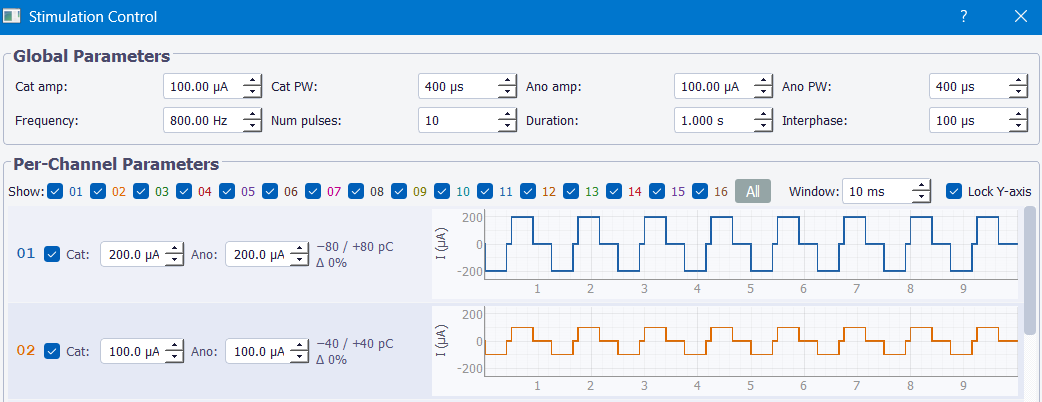
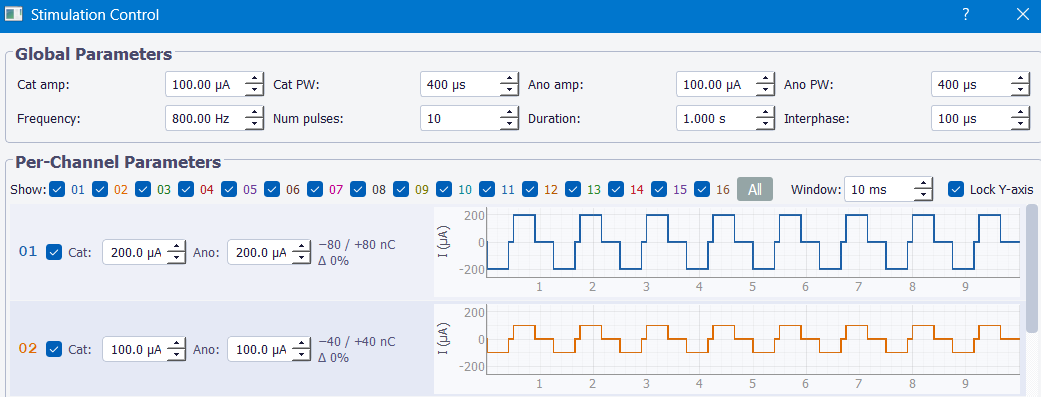
final changes oder so

diff --git a/Semesterproject/sections/supplementary_material.tex b/Semesterproject/sections/supplementary_material.tex
@@ -187,42 +187,42 @@ $f_\text{BLE} = n \times f/\text{ch}$ = total BLE throughput.}
 $n$ & $f$/ch (kHz) & $f_\text{BLE}$ (kSa/s)
     & $P_{3.6\,\text{V}}$ (mW) & $P_{3.0\,\text{V}}$ (mW) & Limit \\
 \midrule
-1 &  1    &  1 & 43.992 & 33.48 & ---     \\
-1 &  2    &  2 & 44.892 & 34.23 & ---     \\
-1 &  4    &  4 & 46.620 & 35.58 & ---     \\
-1 &  8    &  8 & 49.608 & 37.95 & ---     \\
-1 & 16    & 16 & 57.024 & 44.01 & ---     \\
-1 & 32    & 32 & 70.956 & 55.20 & BLE     \\
+1 &  1    &  1 & 43.99 & 33.48 & ---     \\
+1 &  2    &  2 & 44.89 & 34.23 & ---     \\
+1 &  4    &  4 & 46.62 & 35.58 & ---     \\
+1 &  8    &  8 & 49.61 & 37.95 & ---     \\
+1 & 16    & 16 & 57.02 & 44.01 & ---     \\
+1 & 32    & 32 & 70.96 & 55.20 & BLE     \\
 \addlinespace
-2 &  1    &  2 & 46.152 & 34.98 & ---     \\
-2 &  2    &  4 & 49.284 & 37.32 & ---     \\
-2 &  4    &  8 & 55.800 & 42.36 & ---     \\
-2 &  8    & 16 & 67.716 & 51.36 & SPI     \\
+2 &  1    &  2 & 46.15 & 34.98 & ---     \\
+2 &  2    &  4 & 49.28 & 37.32 & ---     \\
+2 &  4    &  8 & 55.80 & 42.36 & ---     \\
+2 &  8    & 16 & 67.72 & 51.36 & SPI     \\
 \addlinespace
-3 &  1    &  3 & 46.944 & 35.40 & ---     \\
-3 &  2    &  6 & 50.472 & 38.22 & ---     \\
-3 &  4    & 12 & 57.708 & 43.80 & ---     \\
-3 &  8    & 24 & 71.136 & 54.33 & SPI     \\
+3 &  1    &  3 & 46.94 & 35.40 & ---     \\
+3 &  2    &  6 & 50.47 & 38.22 & ---     \\
+3 &  4    & 12 & 57.71 & 43.80 & ---     \\
+3 &  8    & 24 & 71.14 & 54.33 & SPI     \\
 \addlinespace
-4 &  1    &  4 & 46.980 & 35.73 & ---     \\
-4 &  2    &  8 & 51.156 & 39.00 & ---     \\
-4 &  4    & 16 & 59.508 & 45.39 & ---     \\
-4 &  8    & 32 & 74.772 & 57.30 & BLE+SPI \\
+4 &  1    &  4 & 46.98 & 35.73 & ---     \\
+4 &  2    &  8 & 51.16 & 39.00 & ---     \\
+4 &  4    & 16 & 59.51 & 45.39 & ---     \\
+4 &  8    & 32 & 74.77 & 57.30 & BLE+SPI \\
 \addlinespace
-8 &  1    &  8 & 48.924 & 37.38 & ---     \\
-8 &  2    & 16 & 55.044 & 42.24 & ---     \\
-8 &  4    & 32 & 67.104 & 51.96 & BLE     \\
+8 &  1    &  8 & 48.92 & 37.38 & ---     \\
+8 &  2    & 16 & 55.04 & 42.24 & ---     \\
+8 &  4    & 32 & 67.10 & 51.96 & BLE     \\
 \addlinespace
-10 &  1   & 10 & 50.220 & 38.31 & ---     \\
-10 &  2   & 20 & 57.276 & 43.83 & ---     \\
-10 &  3.2 & 32 & 65.952 & 50.85 & BLE     \\
+10 &  1   & 10 & 50.22 & 38.31 & ---     \\
+10 &  2   & 20 & 57.28 & 43.83 & ---     \\
+10 &  3.2 & 32 & 65.95 & 50.85 & BLE     \\
 \addlinespace
-12 &  1      & 12 & 51.516 & 39.15 & ---  \\
-12 &  2      & 24 & 59.220 & 45.54 & ---  \\
-12 &  2.667  & 32 & 64.368 & 50.13 & BLE  \\
+12 &  1      & 12 & 51.52 & 39.15 & ---  \\
+12 &  2      & 24 & 59.22 & 45.54 & ---  \\
+12 &  2.667  & 32 & 64.37 & 50.13 & BLE  \\
 \addlinespace
-16 &  1   & 16 & 53.028 & 40.74 & ---     \\
-16 &  2   & 32 & 62.928 & 48.63 & BLE     \\
+16 &  1   & 16 & 53.03 & 40.74 & ---     \\
+16 &  2   & 32 & 62.93 & 48.63 & BLE     \\
 \bottomrule
 \end{tabular}
 \end{table}
@@ -241,55 +241,55 @@ measurement-to-measurement variability.}
 \toprule
 $n$ & $f$/ch (kHz) & $f_\text{BLE}$ (kSa/s) & $P_{3.6\,\text{V}}$ (mW) & Limit \\
 \midrule
- 1 &  2      &  2 & 43.668 & ---     \\
- 1 &  4      &  4 & 45.612 & ---     \\
- 1 &  8      &  8 & 48.348 & ---     \\
- 1 & 16      & 16 & 55.368 & ---     \\
- 1 & 32      & 32 & 68.400 & BLE     \\
+ 1 &  2      &  2 & 43.67 & ---     \\
+ 1 &  4      &  4 & 45.61 & ---     \\
+ 1 &  8      &  8 & 48.35 & ---     \\
+ 1 & 16      & 16 & 55.37 & ---     \\
+ 1 & 32      & 32 & 68.40 & BLE     \\
 \addlinespace
- 2 &  2      &  4 & 46.980 & ---     \\
- 2 &  8      & 16 & 60.588 & SPI     \\
+ 2 &  2      &  4 & 46.98 & ---     \\
+ 2 &  8      & 16 & 60.59 & SPI     \\
 \addlinespace
- 3 &  2      &  6 & 47.772 & ---     \\
- 3 &  8      & 24 & 64.188 & SPI     \\
+ 3 &  2      &  6 & 47.77 & ---     \\
+ 3 &  8      & 24 & 64.19 & SPI     \\
 \addlinespace
- 4 &  2      &  8 & 48.708 & ---     \\
- 4 &  8      & 32 & 68.220 & BLE+SPI \\
+ 4 &  2      &  8 & 48.71 & ---     \\
+ 4 &  8      & 32 & 68.22 & BLE+SPI \\
 \addlinespace
- 5 &  2      & 10 & 49.644 & ---     \\
- 5 &  6.4    & 32 & 66.492 & BLE     \\
+ 5 &  2      & 10 & 49.64 & ---     \\
+ 5 &  6.4    & 32 & 66.49 & BLE     \\
 \addlinespace
- 6 &  2      & 12 & 50.580 & ---     \\
- 6 &  5.333  & 32 & 64.944 & BLE     \\
+ 6 &  2      & 12 & 50.58 & ---     \\
+ 6 &  5.333  & 32 & 64.94 & BLE     \\
 \addlinespace
- 7 &  2      & 14 & 51.732 & ---     \\
- 7 &  4.571  & 32 & 63.756 & BLE     \\
+ 7 &  2      & 14 & 51.73 & ---     \\
+ 7 &  4.571  & 32 & 63.76 & BLE     \\
 \addlinespace
- 8 &  2      & 16 & 53.244 & ---     \\
- 8 &  4      & 32 & 64.152 & BLE     \\
+ 8 &  2      & 16 & 53.24 & ---     \\
+ 8 &  4      & 32 & 64.15 & BLE     \\
 \addlinespace
- 9 &  2      & 18 & 53.748 & ---     \\
- 9 &  3.556  & 32 & 62.352 & BLE     \\
+ 9 &  2      & 18 & 53.75 & ---     \\
+ 9 &  3.556  & 32 & 62.35 & BLE     \\
 \addlinespace
-10 &  2      & 20 & 55.116 & ---     \\
-10 &  3.2    & 32 & 63.036 & BLE     \\
+10 &  2      & 20 & 55.12 & ---     \\
+10 &  3.2    & 32 & 63.04 & BLE     \\
 \addlinespace
-11 &  2      & 22 & 55.440 & ---     \\
-11 &  2.909  & 32 & 61.596 & BLE     \\
+11 &  2      & 22 & 55.44 & ---     \\
+11 &  2.909  & 32 & 61.60 & BLE     \\
 \addlinespace
-12 &  2      & 24 & 57.132 & ---     \\
-12 &  2.667  & 32 & 62.388 & BLE     \\
+12 &  2      & 24 & 57.13 & ---     \\
+12 &  2.667  & 32 & 62.39 & BLE     \\
 \addlinespace
-13 &  2      & 26 & 57.564 & ---     \\
-13 &  2.462  & 32 & 61.092 & BLE     \\
+13 &  2      & 26 & 57.56 & ---     \\
+13 &  2.462  & 32 & 61.09 & BLE     \\
 \addlinespace
-14 &  2      & 28 & 58.500 & ---     \\
-14 &  2.286  & 32 & 60.552 & BLE     \\
+14 &  2      & 28 & 58.50 & ---     \\
+14 &  2.286  & 32 & 60.55 & BLE     \\
 \addlinespace
-15 &  2      & 30 & 59.472 & ---     \\
-15 &  2.133  & 32 & 61.200 & BLE     \\
+15 &  2      & 30 & 59.47 & ---     \\
+15 &  2.133  & 32 & 61.20 & BLE     \\
 \addlinespace
-16 &  2      & 32 & 61.308 & BLE     \\
+16 &  2      & 32 & 61.31 & BLE     \\
 \bottomrule
 \end{tabular}
 \end{table}

diff --git a/Semesterproject/sections/methods.tex b/Semesterproject/sections/methods.tex
@@ -80,7 +80,7 @@ For the firmware development, the nrf52832 development kits (DKs) were used as t
 \label{sec:hardware_intan}
 
 SPI (Serial Peripheral Interface) is a synchronous serial protocol in which one device,
-the master (here the nRF52832), drives the clock (SCLK)\label{sec:spi_timing} and
+the master (here the nRF52832), drives the clock (SCLK) and
 initiates every transaction, while the other, the slave (here the Intan RHS2116),
 responds only when addressed. The clock rate is fixed at 8\,MHz throughout this design,
 in both recording and stimulation modes.
@@ -133,7 +133,7 @@ The initialisation sequence follows the example procedure in the RHS2116
 datasheet~\cite{intan_rhs2116_datasheet} (pp.~44--45). The lower amplifier bandwidth is
 fixed at $f_L = 5$\,Hz, appropriate for LFP recording. The only notable deviation is
 that the upper bandwidth~$f_H$ is not configured during initialisation; it is instead
-written at every acquisition start via \texttt{rhs\_set\_bandwidth()}, enabling the
+written at every acquisition start, enabling the
 upper bandwidth to be adjusted from the GUI based on the configured sampling rate
 (see Section~\ref{sec:ppi_acquisition}).
 
@@ -386,7 +386,10 @@ as described in Section~\ref{sec:results_noise}.
     \caption{Miniaturization progression toward an integrated neural recording module.
     (a) SparkFun nRF52832 Breakout board, used for initial development (50$\times$16\,mm).
     (b) Custom QFN48 nRF52832 module (29$\times$17\,mm).
-    (c) Custom WLCSP49 nRF52832 module, most compact standalone module (29$\times$17\,mm).
+    (c) Custom WLCSP49 nRF52832 module (29$\times$17\,mm). The board is the same size
+    as (b); it is the \emph{chip package} that is smaller (WLCSP49 2.956$\times$3.226\,mm
+    vs.\ QFN48 6$\times$6\,mm), which is what enables further miniaturisation in a
+    final co-integrated device.
     (a)--(c) run identical firmware and each interface with the Intan RHS2116 via an
     external carrier board (see Figure~\ref{fig:wiring_connector}).
     (d) Prototype flex PCB co-integrating the nRF52832 and Intan RHS2116 on the same
@@ -598,10 +601,11 @@ immediately resumed unless a stop has been requested, in which case acquisition
 halts cleanly at the buffer boundary.
 
 When the threshold fires at transaction 819, the active buffer has
-$1024 - 819 = 205$ slots remaining before it would overflow. At the maximum SPI
-rate of 128\,kHz (8\,kHz per channel in multi-channel mode, reachable at any
-channel count since the SPI always fires at $16\times$ the per-channel rate), this
-gives a swap window of $205 \times 7.8125\;\mu\text{s} \approx 1.6\,\text{ms}$.
+$1024 - 819 = 205$ slots remaining before it would overflow. The fastest the
+buffer can fill is at the maximum SPI rate of 128\,kHz, which corresponds to
+8\,kHz per channel and is reached at 2, 3, or 4 channels (at higher channel counts
+the BLE link, not the SPI bus, is the limit, so the SPI rate is lower). This worst
+case gives a swap window of $205 \times 7.8125\;\mu\text{s} \approx 1.6\,\text{ms}$.
 The SoftDevice consumes at most 700\,\textmu{}s of CPU time per connection event
 (derived in Appendix~\ref{app:softdevice_timing}), but these SoftDevice ISRs do not execute
 consecutively --- they are separated by gaps of at least 183\,\textmu{}s during
@@ -660,6 +664,7 @@ neither can read a value while the other is in the middle of changing it, which
 would otherwise risk corrupting the data.
 
 \subsubsection{SPI Peripheral Configuration and CS Control}
+\label{sec:spi_timing}
 
 The SPI peripheral switches between two different control approaches at several
 points across the recording and stimulation lifecycle, and is reconfigured each
@@ -760,10 +765,9 @@ would be a non-trivial extension, since the entire pulse sequence is driven by a
 single shared TX buffer and timer chain common to all enabled channels.
 
 \paragraph{Waveform Construction and Phase Transitions.}
-\texttt{stim\_build\_tx\_buffer()} pre-computes a flat array of 4-byte SPI
-frames (\texttt{stim\_tx\_buf}, up to \texttt{STIM\_MAX\_TRANSACTIONS} $= 1012$
-entries, corresponding to a maximum total pulse duration of approximately
-8\,ms) representing one complete biphasic pulse. The sequence is:
+The firmware pre-computes a flat array of 4-byte SPI
+frames (up to 1012 entries, corresponding to a maximum total pulse duration of
+approximately 8\,ms) representing one complete biphasic pulse. The sequence is:
 
 \begin{enumerate}
     \item \textbf{Cathodic phase onset}: two register writes set the cathodic
@@ -940,7 +944,7 @@ demultiplexing. This property does not carry over to the variable channel-count
 configurations added later (Section~\ref{sec:ppi_acquisition}), but the packet
 size itself was kept unchanged. The completed packet is serialised
 into a 232-byte binary frame (adding a 6-byte synchronisation header) and written
-to RTT channel~0 via \texttt{SEGGER\_RTT\_Write()}:
+to RTT:
 
 \begin{itemize}
     \item Bytes 0--5: synchronisation header (\texttt{0xAA 0x55} repeated
@@ -954,16 +958,6 @@ to RTT channel~0 via \texttt{SEGGER\_RTT\_Write()}:
 
 The staging buffer is reset to zero on disconnect to prevent stale fragments
 from a previous connection corrupting the first packet of the next session.
-
-\paragraph{Packet Loss Detection.}
-Each BLE packet carries a 16-bit rolling counter. The GUI checks on every
-received frame whether the counter has advanced by exactly one; a larger gap
-indicates that one or more packets were lost in transmission. When loss is
-detected, the cumulative lost-packet count in the status bar is incremented,
-and the channel assignment phase is advanced to account for the samples that were
-skipped (112 per lost packet), so that subsequent samples are still assigned to
-the correct channel. Both the firmware and the GUI reset their counters at the
-start of each recording session, so packet tracking is always consistent.
 
 \paragraph{Command Forwarding.}
 Commands are only forwarded if a connection to the peripheral is active;
@@ -999,9 +993,8 @@ recognised commands are forwarded to the peripheral:
     sufficient --- so plain text is used for simplicity and debuggability.
     Matching is by substring search (the keyword is accepted anywhere within
     the received string), unlike binary packets which require an exact leading
-    byte and exact length. Binary encoding is used for the C, S, and R packets
-    because their multi-byte numerical payload (DAC values, pulse widths,
-    frequencies) would exceed the BLE write size limit if encoded as ASCII text.
+    byte and exact length. The C, S, and R packets carry multi-byte numerical
+    payloads and so use binary encoding rather than text.
 \end{itemize}
 
 %%%%%%%%%%%%%%%%%%%%%%%%%%%%%%%%%%%%%%%%%%%%%%%%%%%%%%%%%%%
@@ -1029,6 +1022,17 @@ channels in order; this index carries over from one packet to the next, so
 samples still end up in the right channel's buffer even when a packet does not
 happen to start at the first channel of a cycle.
 
+\paragraph{Packet Loss Detection.}
+Each BLE packet carries a 16-bit rolling counter (added by the peripheral). The
+GUI checks on every received frame whether the counter has advanced by exactly
+one; a larger gap indicates that one or more packets were lost in transmission.
+When loss is detected, the cumulative lost-packet count in the status bar is
+incremented, and the rolling channel index is advanced to account for the samples
+that were skipped (112 per lost packet), so that subsequent samples are still
+assigned to the correct channel. Both the peripheral and the GUI reset their
+counters at the start of each recording session, so packet tracking is always
+consistent.
+
 \paragraph{Recording Configuration.}
 Before starting a recording session, the user selects which channels to record
 via per-channel checkboxes, sets the per-channel sampling rate, and selects the
@@ -1053,7 +1057,7 @@ A dedicated stimulation dialog (accessible via the \texttt{STIMULATION} button)
 exposes the full set of stimulation parameters: per-channel cathodic and anodic amplitude (in \textmu A),
 cathodic and anodic pulse width, interphase delay, stimulation frequency, and
 total number of pulses. Each channel row displays a live waveform preview and a
-per-channel charge balance indicator showing cathodic and anodic charge in pC
+per-channel charge balance indicator showing cathodic and anodic charge in nC
 and the percentage imbalance. Recording is suspended during stimulation to
 prevent amplifier saturation from the stimulation artefact; the peripheral
 resumes recording automatically once stimulation ends.

diff --git a/Semesterproject/sections/discussion.tex b/Semesterproject/sections/discussion.tex
@@ -4,15 +4,12 @@
 
 \subsection{Electromagnetic Interference in the WPT Field}
 
-At 30\,cm from the transmitter coil, the recorded noise on a GND-shorted channel
-is typically within $\pm10$\,\textmu{}V (20\,\textmu{}V$_\text{pp}$), only
-marginally above the amplifier's intrinsic noise floor of
-$\approx15.8$\,\textmu{}V$_\text{pp}$. However,
-interference grows rapidly with proximity, and inside the coil the amplifier input
-saturates entirely. The direct on-chip measurement --- shorting a channel with no
-carrier board wiring --- reduced the interference to $\pm20$--$30$\,\textmu{}V
-even inside the coil --- an approximately 200-fold reduction relative to the
-$-6000$ to $+4000$\,\textmu{}V saturation observed with the carrier board. This confirms that the
+The interference measurements (Section~\ref{sec:results_noise}) show that noise on
+a GND-shorted channel is low at 30\,cm but grows rapidly with proximity, saturating
+the amplifier input entirely inside the coil. Critically, the direct on-chip
+measurement --- shorting a channel with no carrier board wiring --- kept the
+interference to $\pm20$--$30$\,\textmu{}V even inside the coil, an approximately
+200-fold reduction. This confirms that the
 carrier board wiring, rather than the WPT field acting directly on the silicon, is
 the dominant pickup path: long external wires form inductive loops and act as
 antennas in the alternating magnetic field.
@@ -159,9 +156,10 @@ captures the second chip's MISO into its own EasyDMA buffer in parallel with the
 After each DMA buffer swap, the two inactive buffers --- one per chip --- could be
 copied interleaved to the ring buffer, producing a contiguous 32-channel data stream
 (Ch01--Ch16 from chip~1, Ch17--Ch32 from chip~2) at the same SPI clock rate as the
-current single-chip design. At 1\,kHz per channel, the total SPI transaction rate is
-identical to the current 16-channel, 2\,kHz configuration, so no changes to the BLE
-throughput budget or timing architecture would be required. A per-channel rate of
+current single-chip design. At 1\,kHz per channel, the total data rate is
+$32 \times 1\,\text{kHz} = 32\,000$ samples/s --- identical to the current
+16-channel, 2\,kHz configuration --- so no changes to the BLE throughput budget
+would be required. A per-channel rate of
 1\,kHz remains above the Nyquist frequency for LFP signals up to approximately
 300\,Hz~\cite{reimann2013biophysically} and would therefore preserve the full signal
 content of interest. This approach has not been implemented or tested and would require

diff --git a/Semesterproject/main.tex b/Semesterproject/main.tex
@@ -90,7 +90,8 @@ This decouples data acquisition almost entirely from CPU availability, eliminati
 sample jitter caused by SoftDevice radio preemption and enabling the processor to remain
 in low-power sleep between BLE connection events. The system supports a configurable
 selection of 1--16 recording channels at adjustable per-channel sampling rates up to
-32\,kHz, charge-balanced biphasic electrical stimulation with per-channel amplitude and
+32\,kHz, charge-balanced biphasic electrical stimulation (or monophasic, by setting the
+anodic amplitude to zero) with per-channel amplitude and
 timing control, and persistent configuration storage in non-volatile flash memory.
 
 BLE throughput with real SPI data reached up to approximately 540\,kbps in the
@@ -102,7 +103,7 @@ configurations are presented.
 The nRF52832 peripheral module consumed 18.6\,mW (equivalent to 20.4\,mW at 3.3\,V),
 a 31\,\% reduction compared to the prior single-channel implementation, while
 simultaneously increasing the channel count 16-fold. Combined system power
-(nRF52832\,+\,Intan RHS2116) was 61.3\,mW at 3.6\,V (48.6\,mW at 3.0\,V),
+(nRF52832\,+\,Intan RHS2116) was 62.9\,mW at 3.6\,V (48.6\,mW at 3.0\,V),
 where 3.6\,V is the nominal WPT output voltage chosen to account for expected
 voltage drops in thin-film integration. Most significantly, end-to-end operation of the complete recording and BLE data
 transmission pipeline under wireless power was demonstrated with a compact WLCSP49

diff --git a/Semesterproject/sections/results.tex b/Semesterproject/sections/results.tex
@@ -28,7 +28,7 @@ channel count 16-fold. Two architectural improvements account for this: the PPI/
 acquisition pipeline allows the CPU to remain in low-power sleep between BLE events
 rather than spinning in a polling loop, and removal of the UART peripheral eliminates
 a further source of continuous power draw. Combined power consumption of the nRF52832 and Intan RHS2116 was measured at
-61.3\,mW at 3.6\,V and 48.6\,mW at 3.0\,V in the same 16-channel, 2\,kHz per
+62.9\,mW at 3.6\,V and 48.6\,mW at 3.0\,V in the same 16-channel, 2\,kHz per
 channel configuration. Full power measurements across all channel and sampling
 rate configurations at both supply voltages are presented in
 Section~\ref{sec:results_power} and Appendix~\ref{app:power_data}.
@@ -367,7 +367,7 @@ further.
 \begin{figure}[htbp]
     \centering
     \includegraphics[width=0.55\textwidth]{figures/shorted_on_intan.png}
-    \caption{Channel~0 shorted directly on the Intan RHS2116 die, without the
+    \caption{Channel~1 shorted directly on the Intan RHS2116 die, without the
     carrier board, inside the WPT field. Interference is reduced to
     $\pm20$--$30$\,\textmu{}V, confirming that carrier board wiring is the
     dominant pickup mechanism.}

diff --git a/Semesterproject/sections/conclusion.tex b/Semesterproject/sections/conclusion.tex
@@ -17,7 +17,7 @@ implementation, achieved while increasing the channel count 16-fold. Two archite
 changes account for this: the PPI/DMA pipeline allows the CPU to remain in low-power
 sleep between BLE connection events, and removal of the UART peripheral eliminates a
 further source of continuous power draw. Combined system power (nRF52832 and Intan
-RHS2116) was measured at 61.3\,mW at 3.6\,V in the default 16-channel, 2\,kHz
+RHS2116) was measured at 62.9\,mW at 3.6\,V in the default 16-channel, 2\,kHz
 per channel configuration, with power scaling approximately as $V^{1.47}$ between
 3.0\,V and 3.6\,V supply.
 